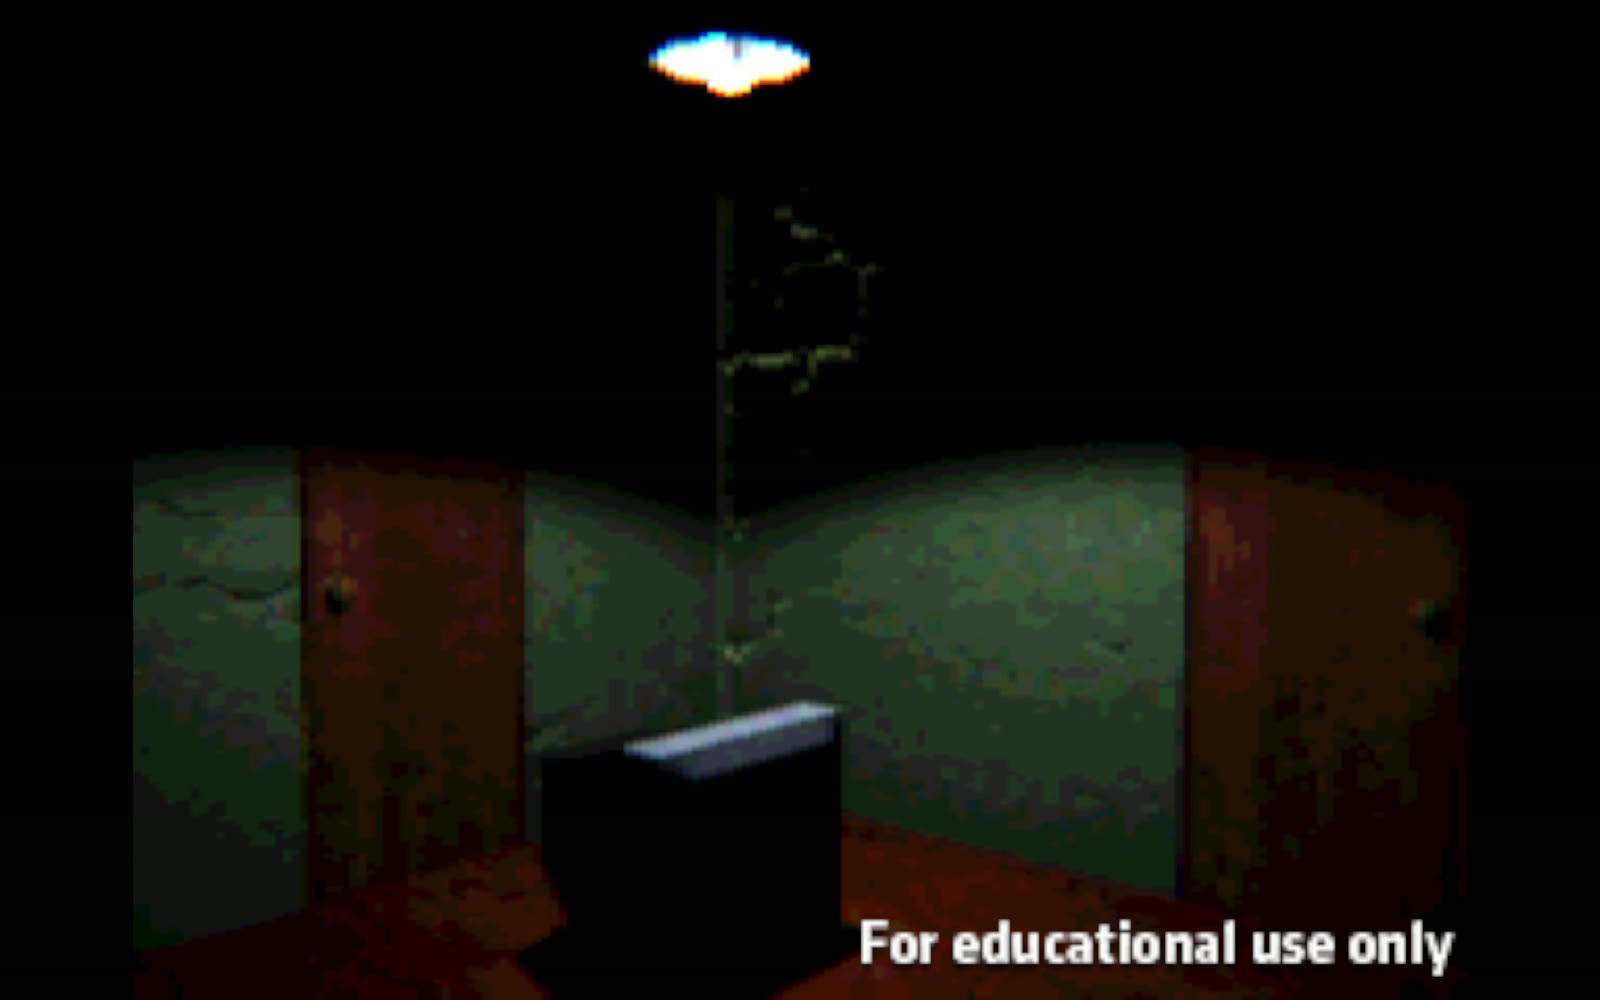
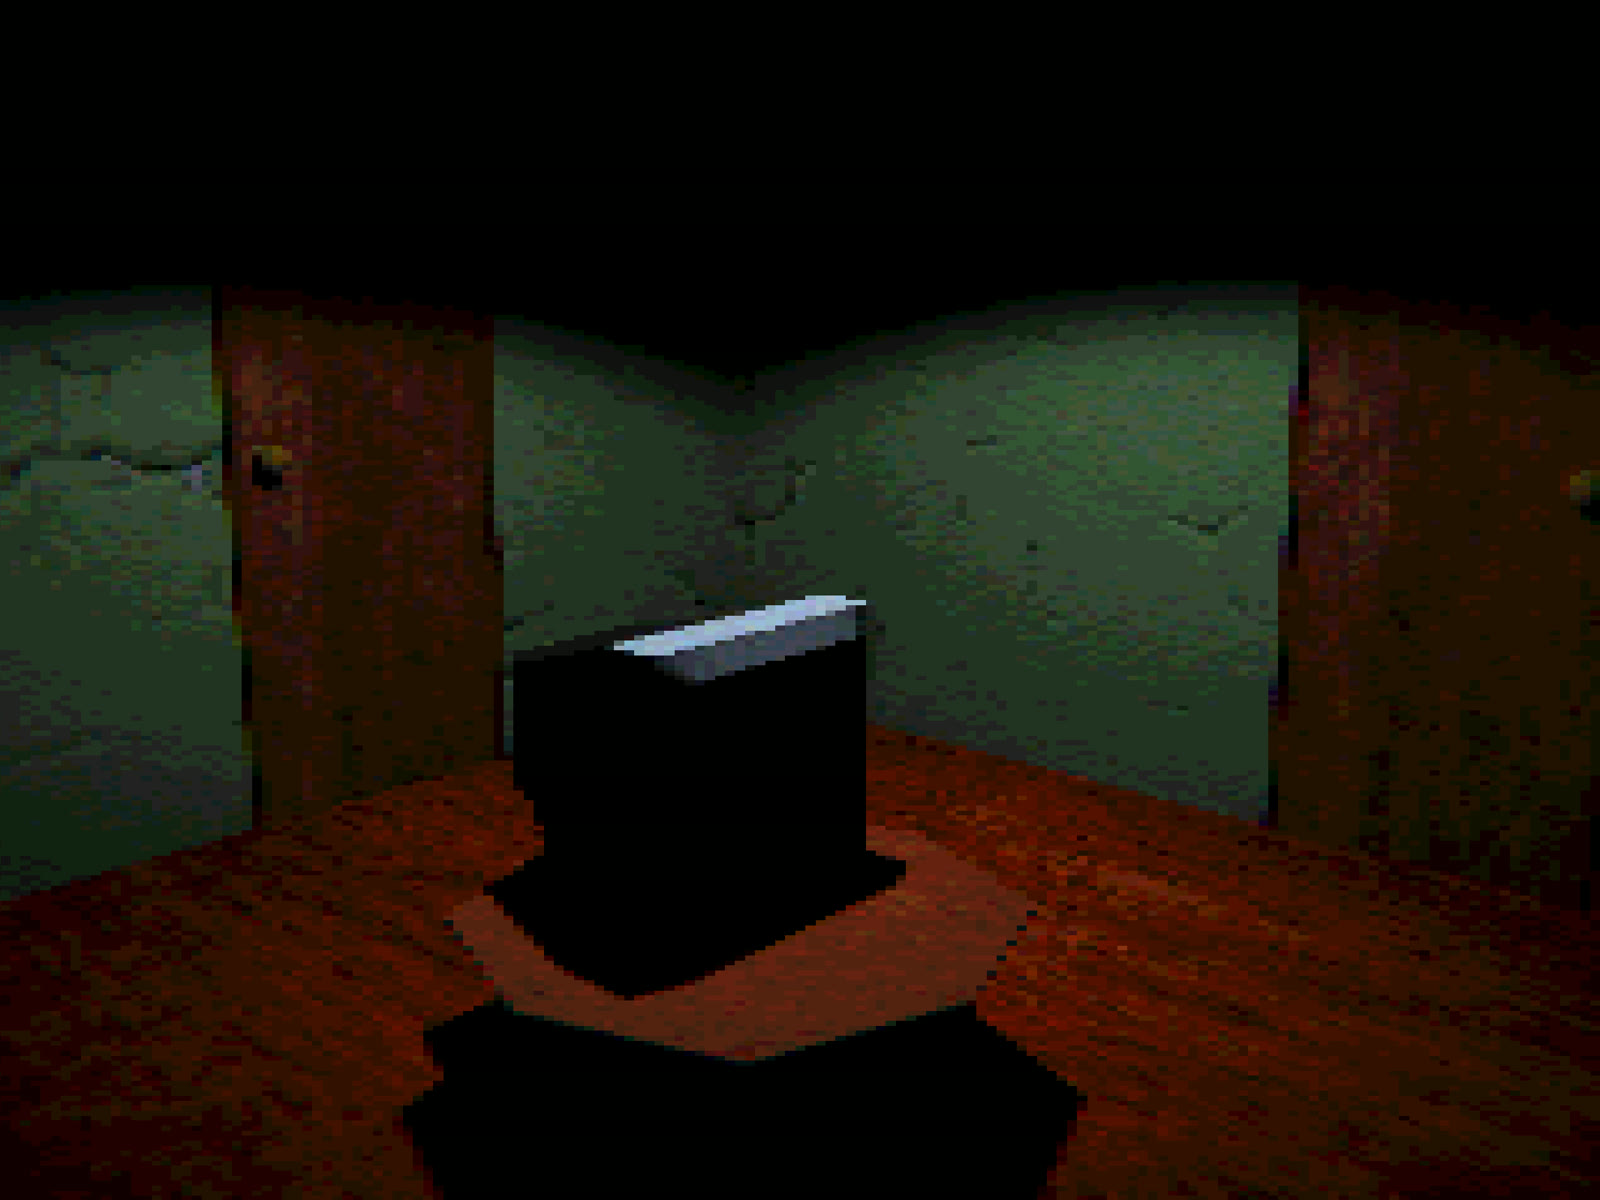
feat: replace Touch the Grass screenshot with a clean in-game shot

diff --git a/index.html b/index.html
@@ -53,7 +53,7 @@
     </article>
 
     <article class="proj">
-      <div class="media"><img src="assets/touch-the-grass.jpg" alt="Touch the Grass: a dim room lit by a single ceiling lamp" width="1600" height="1000" loading="lazy"></div>
+      <div class="media"><img src="assets/touch-the-grass.jpg" alt="Touch the Grass: a dark room with green walls and two wooden doors" width="1600" height="1200" loading="lazy"></div>
       <div class="side">
         <h2>Touch the Grass</h2>
         <p class="blurb">A small horror environment built from my own models. My professor picked it as an example for future 3D modeling classes.</p>

diff --git a/touch-the-grass.html b/touch-the-grass.html
@@ -29,7 +29,7 @@
     </div>
   </header>
 
-  <div class="heroimg"><img src="assets/touch-the-grass.jpg" alt="A dim room lit by a single ceiling lamp, with a crack running down the wall" width="1600" height="1000"></div>
+  <div class="heroimg"><img src="assets/touch-the-grass.jpg" alt="A dark room with green plaster walls and two wooden doors, one object in the middle lit from above" width="1600" height="1200"></div>
 
   <main class="cs-body">
     <nav class="toc" aria-label="On this page">
